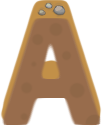
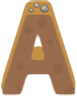
Fallende bokstaver
I mitt hjert

diff --git a/Ladybug Mayhem/Ladybug Mayhem/Ladybug Mayhem/GameOverScreen.cs b/Ladybug Mayhem/Ladybug Mayhem/Ladybug Mayhem/GameOverScreen.cs
@@ -10,14 +10,16 @@ namespace Ladybug_Mayhem
 {
     public class GameOverScreen
     {
-        private Vector2 position;
         private DrawObject grassBlock;
-        private DrawObject dirtBlock;
+        private String[] letterFileNames = new String[] { "G", "A", "M", "E", "O", "V", "E", "R"};
+        private int[] letterWidth = new int[] { 0, 73, 77, 95, 54 + 54, 78, 78, 64, 64 };
+        private int totalLetterWidth = 0;
+        private int xPos = 0;
         private FallingObject[] title = new FallingObject[8];
+
         private int screenHeight;
         private int screenWidth;
         private int objDrawAmount;
-        private int speedMultiplier = 100;
         private int numObjectsToDraw = 0;
         private int delay = 10;
         private int currentDelay;
@@ -27,9 +29,12 @@ namespace Ladybug_Mayhem
             this.screenHeight = screenHeight;
             this.screenWidth = screenWidth;
             grassBlock = new DrawObject(game, content, "Grass Block", 0, new Vector2(0, screenHeight / 2));
-            dirtBlock = new DrawObject(game, content, "Dirt Block", 2, new Vector2(screenWidth - grassBlock.width * 2, screenHeight - (grassBlock.height * 2)));
             coverScreen(grassBlock, screenHeight - grassBlock.height);
-            for (int i = 0; i < title.Length; i++) title[i] = new FallingObject(game, content, "Grass Block", 1, new Vector2(i * 100, 0), true, 10);
+            Console.WriteLine(xPos);
+            Console.WriteLine(totalLetterWidth);
+            for (int i = 0; i < letterWidth.Length; i++) totalLetterWidth += letterWidth[i];
+            xPos = (screenWidth / 2) - (totalLetterWidth / 2);
+            for (int i = 0; i < title.Length; i++) title[i] = new FallingObject(game, content, @"GameOverLetters/" + letterFileNames[i], 1, new Vector2(xPos += letterWidth[i], -100), true, 10);
         }
         public void Update(GameTime gameTime)
         {
@@ -42,14 +47,13 @@ namespace Ladybug_Mayhem
             for (int i = 0; i < numObjectsToDraw; i++)
             {
                 title[i].falling = true;
-                if (title[i].currentYPos > screenHeight - title[i].height) title[i].falling = false;
+                if (title[i].currentYPos > screenHeight - grassBlock.height) title[i].falling = false;
                 title[i].Update(gameTime);
             }
         }
         public void Draw(SpriteBatch spriteBatch)
         {
             grassBlock.Draw(spriteBatch);
-            dirtBlock.Draw(spriteBatch);
             for (int i = 0; i < title.Length; i++) title[i].Draw(spriteBatch);
         }
 

diff --git a/Ladybug Mayhem/Ladybug Mayhem/Ladybug Mayhem/DrawObject.cs b/Ladybug Mayhem/Ladybug Mayhem/Ladybug Mayhem/DrawObject.cs
@@ -28,7 +28,6 @@ namespace Ladybug_Mayhem
         }
         public virtual void Update(GameTime gameTime, Rectangle clientBounds)
         {
-            // TODO: Add your update code here
         }
         public virtual void Draw(SpriteBatch spriteBatch)
         {
